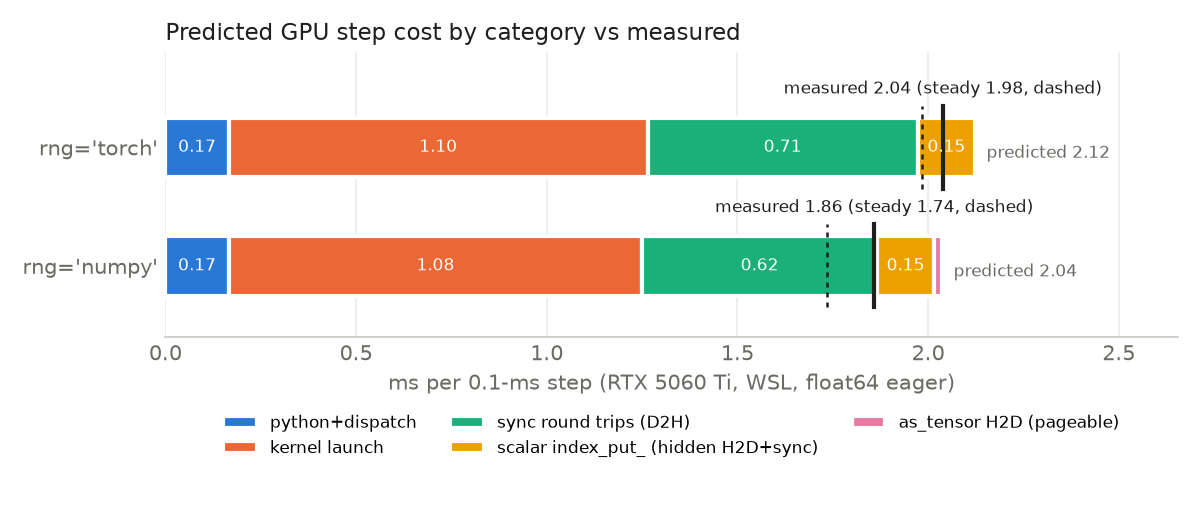
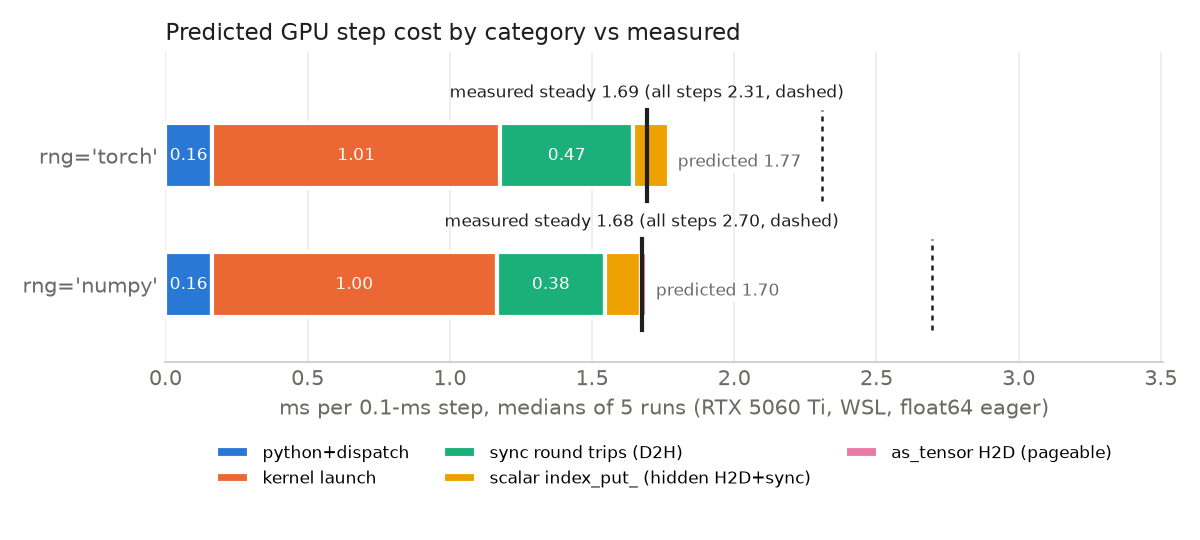
flybrain Week 4: GPU track from the 5-run T1 revision
Embeds the budget table verbatim from flybrain perf/results/w4/
DESKTOP-4C13T5V_20261118-1101_overhead_budget_table.html and the matching PNG
(medians of 5 runs with ranges), matches the graph-replay wording to the
report, and words the week summary as wall time per simulated step.

diff --git a/flybrain/week4/index.html b/flybrain/week4/index.html
@@ -36,6 +36,7 @@ th,td{text-align:left;padding:6px 12px 6px 0;border-bottom:1px solid var(--line)
 th{font-family:var(--mono);font-size:.72rem;letter-spacing:.08em;text-transform:uppercase;color:var(--muted);font-weight:500}
 td.n,th.n{text-align:right;padding-right:16px;white-space:nowrap}
 tr.total td{font-weight:bold;border-bottom:2px solid var(--fg)}
+.rg{display:block;color:var(--muted);font-size:.85em;white-space:nowrap}
 code{font-family:var(--mono);font-size:.84em;background:var(--code);border-radius:4px;padding:1px 5px}
 figure{margin:16px 0;background:#fff;border:1px solid var(--line);border-radius:8px;padding:8px}
 figure img{display:block;width:100%;height:auto}
@@ -52,40 +53,46 @@ figcaption{font-size:.85rem;color:#6b6e62;padding:6px 4px 2px}
 <section id="gpu-track">
 <h2>GPU track</h2>
 <p class="eyebrow">Day 3 · where the GPU step goes</p>
-<p>One simulated 0.1 ms step took about 2 ms on an RTX 5060 Ti (under WSL), three times slower than the same step on 6 CPU threads (0.66 ms). The question was why. We timed the building blocks one by one (launching a tiny GPU kernel, waiting for the GPU, small copies), counted how often a real step uses each, and added them up.</p>
-<p>The step is held up by the host, not by GPU arithmetic. It launches about 106 tiny kernels and makes the CPU wait for the GPU 10 times. Adding up those costs predicts the measured step time to within 20% for both random-number modes in the run below. Across five repeat runs it holds in four, when stall steps are left out.</p>
+<p>One simulated 0.1 ms step takes about 1.7 ms of wall time on an RTX 5060 Ti (under WSL) once the network is running. The same step takes 0.6 ms on 6 CPU threads, about a third of that. The question was why. We timed the building blocks one by one (launching a tiny GPU kernel, waiting for the GPU, small copies), counted how often a real step uses each, and added them up. The whole measurement ran five times, and every number below is the median of the five runs with the range in brackets.</p>
+<p>The step is held up by the host, not by GPU arithmetic. It launches about 106 tiny kernels and makes the CPU wait for the GPU 10 times. With unit costs taken as medians across the runs, those costs add up to within 5% of the measured steady step. Predicted from each run's own unit costs, the median ratio is 1.10 (numpy) and 1.24 (torch), because several of the GPU timings switch between a fast and a slow value from run to run.</p>
 
 <h3>Budget per step (ms)</h3>
 <div class="tablewrap">
-<table>
-<thead><tr><th>Category</th><th class="n">numpy rng</th><th class="n">torch rng</th></tr></thead>
+<!-- generated by flybrain bench/w4_overhead_plot.py: perf/results/w4/DESKTOP-4C13T5V_20261118-1101_overhead_budget_table.html (embedded verbatim) -->
+<table class="budget">
+<thead><tr><th>ms per step</th><th class="n">numpy rng</th><th class="n">torch rng</th></tr></thead>
 <tbody>
-<tr><td>Python + PyTorch dispatch (117 ops × 1.4 µs)</td><td class="n">0.17</td><td class="n">0.17</td></tr>
-<tr><td>Kernel launches, at the GPU's pace (~106 × 10 µs)</td><td class="n">1.08</td><td class="n">1.10</td></tr>
-<tr><td>Waiting for GPU results (5–6 round trips)</td><td class="n">0.62</td><td class="n">0.71</td></tr>
-<tr><td>Hidden copies from <code>x[idx] = constant</code> (4 per step)</td><td class="n">0.15</td><td class="n">0.15</td></tr>
-<tr><td>Uploading random input from NumPy</td><td class="n">0.02</td><td class="n">0</td></tr>
-<tr class="total"><td>Predicted</td><td class="n">2.04</td><td class="n">2.12</td></tr>
-<tr><td>Measured, all steps</td><td class="n">1.86</td><td class="n">2.04</td></tr>
-<tr><td>Measured, without stalls</td><td class="n">1.74</td><td class="n">1.98</td></tr>
+<tr><td>python+dispatch</td><td class="n">0.16</td><td class="n">0.16</td></tr>
+<tr><td>kernel launch</td><td class="n">1.00</td><td class="n">1.01</td></tr>
+<tr><td>sync round trips (D2H)</td><td class="n">0.38</td><td class="n">0.47</td></tr>
+<tr><td>scalar index_put_ (hidden H2D+sync)</td><td class="n">0.13</td><td class="n">0.13</td></tr>
+<tr><td>as_tensor H2D (pageable)</td><td class="n">0.02</td><td class="n">0.00</td></tr>
+<tr class="total"><td>Predicted (unit costs = medians of runs)</td><td class="n">1.70</td><td class="n">1.77</td></tr>
+<tr><td>Predicted per run, median [min–max]</td><td class="n">1.89 <span class="rg">[1.66–2.40]</span></td><td class="n">2.04 <span class="rg">[1.75–2.62]</span></td></tr>
+<tr><td>Measured, steady state (steps ≤ 5 ms)</td><td class="n">1.68 <span class="rg">[1.56–1.71]</span></td><td class="n">1.69 <span class="rg">[1.60–1.78]</span></td></tr>
+<tr><td>Measured, all steps</td><td class="n">2.70 <span class="rg">[1.68–3.90]</span></td><td class="n">2.31 <span class="rg">[2.00–3.73]</span></td></tr>
+<tr><td>Share of stall steps (~11 ms)</td><td class="n">11.0% <span class="rg">[0.1%–24.9%]</span></td><td class="n">6.6% <span class="rg">[3.7%–21.0%]</span></td></tr>
+<tr><td>Predicted / steady, per run</td><td class="n">1.10 <span class="rg">[1.06–1.44]</span></td><td class="n">1.24 <span class="rg">[1.04–1.55]</span></td></tr>
 </tbody>
 </table>
+<p class="note">Medians across 5 runs, [min–max] across runs. Categories use unit costs that are medians across runs and sizes.</p>
 </div>
 
 <figure>
-<img src="gpu_budget.png" alt="Stacked bars of predicted milliseconds per step by category for rng numpy (2.04 ms) and rng torch (2.12 ms), with measured markers at 1.86 and 2.04 ms. Kernel launches are the largest segment, then waiting for GPU results." width="1200" height="510">
-<figcaption>Predicted cost per step by category. The solid line is the measured mean; the dashed line leaves out stall steps.</figcaption>
+<img src="gpu_budget.png" alt="Stacked bars of predicted milliseconds per step by category: rng numpy 1.70 ms, rng torch 1.77 ms. Kernel launches (about 1.0 ms) are the largest segment, then waiting for GPU results. Measured steady state is 1.68 and 1.69 ms; measured over all steps, stalls included, 2.70 and 2.31 ms." width="1200" height="540">
+<figcaption>Predicted cost per step by category. The solid line is the measured steady state (median of five runs); the dashed line includes stall steps.</figcaption>
 </figure>
 
 <h3>What this means for Week 5</h3>
 <ul>
-<li><strong>Remove the 10 waits per step</strong>, about −0.8 ms per step. Four of them are simple assignments such as <code>v[idx] = v_rst</code>, which quietly copy the constant to the GPU and wait.</li>
-<li><strong>Then record the whole step as a CUDA graph.</strong> A graph replays 50 tiny kernels 2–4× faster than launching them one by one. The target is 0.5 ms per step or less, which would beat the CPU.</li>
-<li><strong>Fusing kernels is the other lever.</strong> Each kernel removed saves about 10 µs.</li>
-<li><strong>Python overhead is small</strong> (0.17 ms), so rewriting the loop in C++ would not pay off.</li>
-<li><strong>Stalls.</strong> Under WSL some steps take about 11 ms instead of 2 ms. How often this happens changes from run to run, and it is outside the model.</li>
+<li><strong>The 3.3 ms per step measured on 16 November was not the step cost.</strong> It included setup, warm-up and stalls. The steady step is about 1.6–1.8 ms. Week 5 will report the steady time and the share of stall steps as two separate numbers.</li>
+<li><strong>Remove the 10 waits per step</strong>, about −0.5 to −0.6 ms per step. Four of them are simple assignments such as <code>v[idx] = v_rst</code>, which quietly copy the constant to the GPU and wait.</li>
+<li><strong>Then record the whole step as a CUDA graph.</strong> A graph replays 50 tiny kernels about 4× faster than launching them one by one (median 4.4×, 1.9–4.5× across runs). The target is 0.5 ms per step or less, which would beat the CPU.</li>
+<li><strong>Fusing kernels is the other lever.</strong> Each kernel removed saves about 5–10 µs.</li>
+<li><strong>Python overhead is small</strong> (0.16 ms), so rewriting the loop in C++ would not pay off.</li>
+<li><strong>Stalls.</strong> Under WSL some steps take about 11 ms instead of 1.7 ms. Their share ranged from 0.1% to 25% of steps between runs. They are not part of the prediction.</li>
 </ul>
-<p class="note">Measured 2026-11-18 on an RTX 5060 Ti, driver 610.88, WSL 3.0.5, PyTorch 2.11 (CUDA 12.8), float64, looming stimulus, averaged over 1,990 warm steps. GPU timings on this machine vary by up to several times between runs; the full numbers and repeat runs are in the flybrain repo under <code>perf/week04_day3.md</code>.</p>
+<p class="note">Measured 2026-11-18 on an RTX 5060 Ti, driver 610.88, WSL 3.0.5, PyTorch 2.11 (CUDA 12.8), float64, looming stimulus. Each run measured 1,990 warm steps, and the whole suite ran five times. Many GPU micro-timings on this machine vary by 2–16× between runs; the full list is in the flybrain repo under <code>perf/week04_day3.md</code>.</p>
 </section>
 </main>
 </body>
